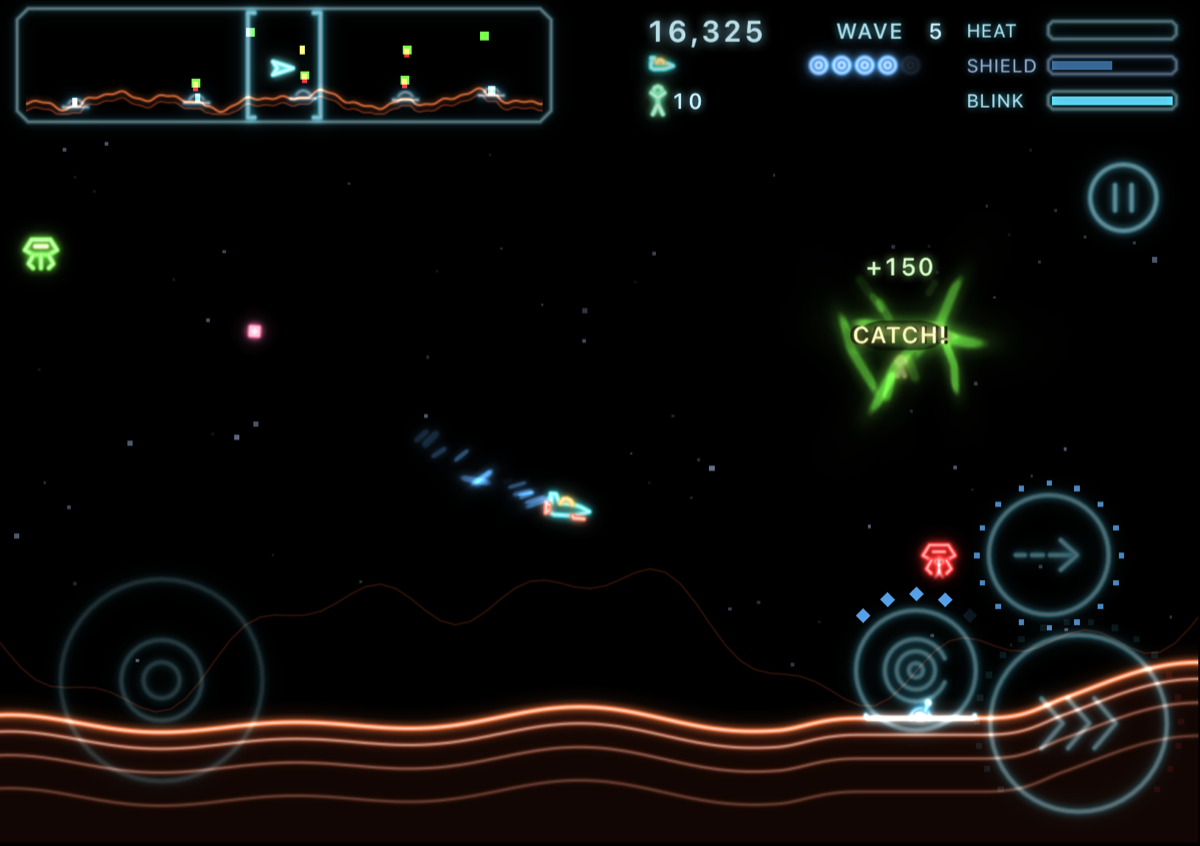
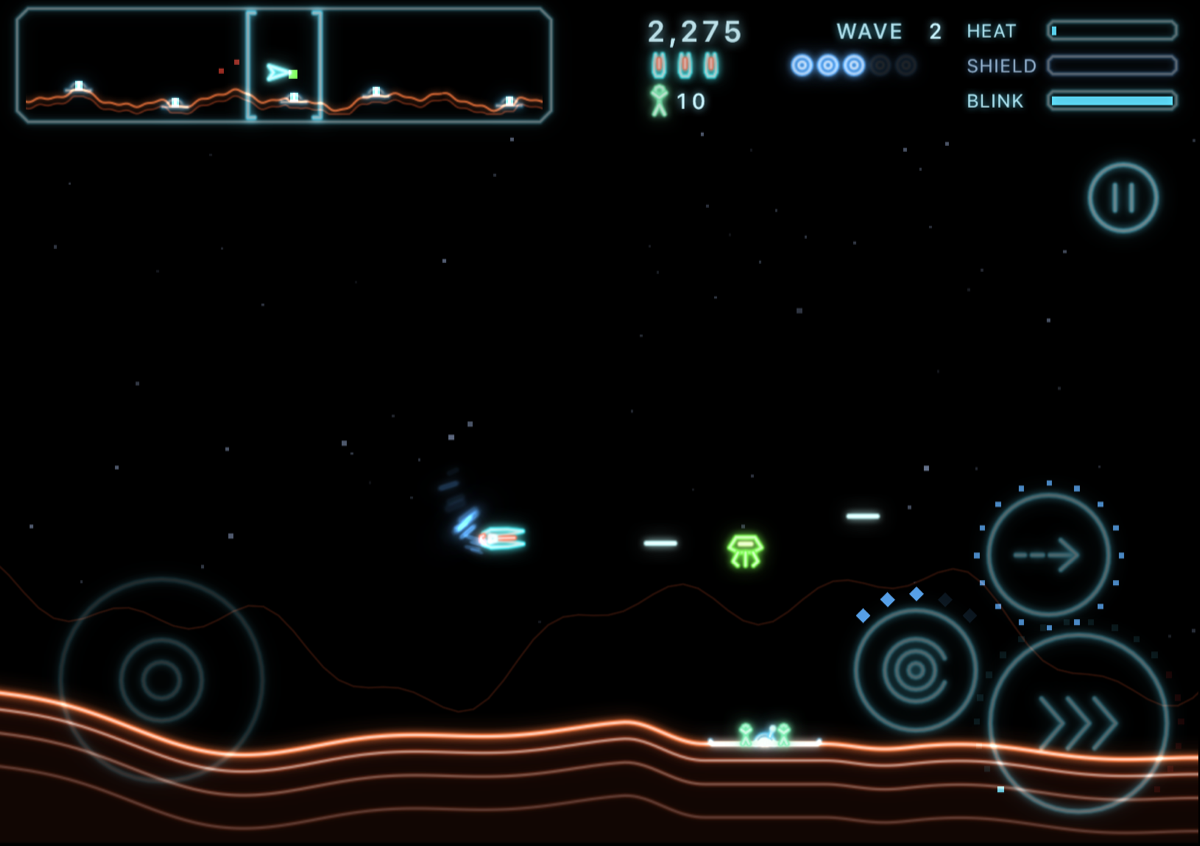
Replace the ship with the Pincer, a forked top-down gunship
The side-view jet is gone. The ship is now the Pincer, chosen from five
candidates: two prongs with the cannon between them, a canopy and an
engine at the back, symmetric top to bottom and the same size as the
original arrowhead. Shots leave from the mouth of the fork and the
plume from the engine.

HUD life icons point up again and show the hull and cannon. The app
icon and README screenshot are regenerated, and the ship test now pins
the symmetry and footprint. Sounds and tuning are unchanged.

Claude-Session: https://claude.ai/code/session_01Hc1qQ1kfAFP8Y5nkFC7a5U

diff --git a/GameCore/Sources/GameCore/Themes/AlienFrontier.swift b/GameCore/Sources/GameCore/Themes/AlienFrontier.swift
@@ -46,8 +46,8 @@ public struct AlienFrontier: Theme {
         }
     }
 
-    /// The ship as a life icon: just the hull and canopy, since the cannon and nozzle blur into
-    /// it at that size.
+    /// The ship as a life icon: just the forked hull and the cannon between its prongs, since the
+    /// canopy and engine blur into the back of the hull at that size.
     public func icon(for role: EntityRole) -> ShapeDescription {
         guard role == .player else { return shape(for: role) }
         return ShapeDescription(scale: Self.skimmer.scale, strokes: Array(Self.skimmer.strokes.prefix(2)))
@@ -136,26 +136,25 @@ public struct AlienFrontier: Theme {
 
     private static func v(_ x: Double, _ y: Double) -> Vec2 { Vec2(x, y) }
 
-    /// A side-on fighter: a long, low hull with a drooping nose, a bubble canopy behind the
-    /// middle, a raked tail fin, a flared engine nozzle at the back and a cannon slung under the
-    /// chin. Seen from the side, so it has a top and a bottom and is mirrored, never flipped
-    /// upside down, to face left.
+    /// The Pincer: a forked gunship seen from above. Two prongs run forward either side of a
+    /// cannon that sits in the gap between them, a canopy rides behind the fork and an engine
+    /// flares at the back. Symmetric top to bottom, so a left-facing ship is just a mirror.
     static let skimmer: ShapeDescription = {
         let hull = RGB(hex: 0x3FF6FF)
-        let canopy = RGB(hex: 0xFFD45A)
+        let canopy = RGB(hex: 0xE0FFFF)
         let hot = RGB(hex: 0xFF7A5A)
-        return ShapeDescription(scale: 19, strokes: [
-            // The hull, from the nose back along the spine, over the fin, down the tail and
-            // forward along the belly.
-            ShapeStroke([v(0.95, -0.06), v(0.55, 0.12), v(0.2, 0.2), v(-0.4, 0.22), v(-0.6, 0.6), v(-0.82, 0.6),
-                         v(-0.76, 0.2), v(-0.84, 0.15), v(-0.84, -0.2), v(-0.6, -0.32), v(0.25, -0.3), v(0.62, -0.18)],
+        return ShapeDescription(scale: 18, strokes: [
+            // The hull, from the tip of the upper prong back along the top, round the tail, out
+            // to the tip of the lower prong and back into the fork between them.
+            ShapeStroke([v(1.0, 0.3), v(0.3, 0.4), v(-0.5, 0.42), v(-0.85, 0.25), v(-0.85, -0.25), v(-0.5, -0.42),
+                         v(0.3, -0.4), v(1.0, -0.3), v(0.25, -0.16), v(-0.15, -0.12), v(-0.15, 0.12), v(0.25, 0.16)],
                         closed: true, color: hull),
-            // The canopy, a bubble on the spine.
-            ShapeStroke([v(0.18, 0.2), v(0.08, 0.36), v(-0.08, 0.43), v(-0.24, 0.41), v(-0.36, 0.22)], color: canopy),
-            // The cannon under the chin.
-            ShapeStroke([v(0.22, -0.3), v(0.28, -0.4), v(0.74, -0.4)], color: hot),
-            // The engine nozzle, flaring out behind.
-            ShapeStroke([v(-0.84, 0.1), v(-0.98, 0.17), v(-0.98, -0.27), v(-0.84, -0.15)], color: hot),
+            // The cannon, run forward from the back of the fork.
+            ShapeStroke([v(-0.15, 0), v(0.6, 0)], color: hot),
+            // The canopy behind the fork.
+            ShapeStroke([v(-0.3, 0.1), v(-0.55, 0.14), v(-0.55, -0.14), v(-0.3, -0.1)], closed: true, color: canopy),
+            // The engine, flaring out of the tail.
+            ShapeStroke([v(-0.85, 0.15), v(-0.97, 0.1), v(-0.97, -0.1), v(-0.85, -0.15)], color: hot),
         ])
     }()
 

diff --git a/GameCore/Tests/GameCoreTests/ThemeTests.swift b/GameCore/Tests/GameCoreTests/ThemeTests.swift
@@ -43,21 +43,27 @@ import Testing
         }
     }
 
-    /// The ship is drawn side-on: it has a top (canopy, fin) and a bottom (cannon), so it must
-    /// not be its own mirror image top to bottom, and it stays about as big as what can hit it.
-    @Test func theShipIsASideViewWithATopAndABottom() {
+    /// The ship is seen from above, so it is its own mirror image top to bottom: flipping it to
+    /// face left can never turn it upside down, and the plume and shots leave from its middle.
+    /// It stays about as big as what can hit it.
+    @Test func theShipIsATopDownForkSymmetricTopToBottom() {
         let ship = theme.shape(for: .player)
-        let points = Set(ship.strokes.flatMap(\.points).map { "\($0.x),\($0.y)" })
-        let mirrored = Set(ship.strokes.flatMap(\.points).map { "\($0.x),\(-$0.y == 0 ? 0 : -$0.y)" })
-        #expect(points != mirrored)
-        let bounds = ship.bounds
-        #expect(bounds.max.y > -bounds.min.y + 0.1, "the fin and canopy rise higher than the belly hangs")
-        // Its footprint is close to the hit circle: no more than half as long again as the
-        // circle is wide, and at least most of the circle tall.
+        for stroke in ship.strokes {
+            let points = Set(stroke.points.map { "\($0.x),\($0.y == 0 ? 0 : $0.y)" })
+            let mirrored = Set(stroke.points.map { "\($0.x),\($0.y == 0 ? 0 : -$0.y)" })
+            #expect(points == mirrored, "\(stroke.points)")
+        }
+        // The cannon lies on the centre line, behind the nose, where the shots leave.
+        let cannon = ship.strokes.filter { $0.points.allSatisfy { $0.y == 0 } }
+        #expect(cannon.count == 1)
+        #expect(cannon.first.map { $0.points.map(\.x).max()! < ship.bounds.max.x } == true)
+        // Its footprint is close to the hit circle: from as long as the circle is wide to half as
+        // long again, and from most of the circle tall to no taller than it.
         let radius = Tuning().playerRadius
+        let bounds = ship.bounds
         let length = (bounds.max.x - bounds.min.x) * ship.scale
         let height = (bounds.max.y - bounds.min.y) * ship.scale
-        #expect(length <= 2 * radius * 1.6 && length >= 2 * radius)
+        #expect(length >= 2 * radius && length <= 2 * radius * 1.6)
         #expect(height >= radius * 1.2 && height <= 2 * radius)
         // The life icon is a simpler ship, never a different one.
         let icon = theme.icon(for: .player)

diff --git a/Rimwatch/GameScene.swift b/Rimwatch/GameScene.swift
@@ -1508,11 +1508,11 @@ final class GameScene: SKScene {
         syncPlayer(sim.player)
         if sim.player.isAlive, frontEnd.screen == .playing {
             let p = sim.player
-            // The plume leaves the nozzle, wherever the tilt has swung it.
+            // The plume leaves the engine, wherever the tilt has swung it.
             let tilt = shipTilt(p)
-            let nozzle = shipNozzle
-            let tail = Vec2(world.wrap(p.pos.x + p.facing * nozzle.x * cos(tilt) - nozzle.y * sin(tilt)),
-                            p.pos.y + p.facing * nozzle.x * sin(tilt) + nozzle.y * cos(tilt))
+            let engine = shipEngine
+            let tail = Vec2(world.wrap(p.pos.x + p.facing * engine.x * cos(tilt) - engine.y * sin(tilt)),
+                            p.pos.y + p.facing * engine.x * sin(tilt) + engine.y * cos(tilt))
             effects.exhaust(at: tail, thrust: lastInput.move, shipVelocity: p.vel, facing: p.facing,
                             color: p.isOverheated ? theme.palette.warning : theme.palette.shield, elapsed: dt)
         }
@@ -1673,7 +1673,7 @@ final class GameScene: SKScene {
 
     /// Where the engine plume leaves the ship, in world units from its origin with the ship
     /// facing right: the middle of the rearmost points of the theme's ship shape.
-    private lazy var shipNozzle: Vec2 = {
+    private lazy var shipEngine: Vec2 = {
         let shape = theme.shape(for: .player)
         let back = shape.bounds.min.x
         let rear = shape.strokes.flatMap(\.points).filter { $0.x <= back + 0.001 }
@@ -1696,8 +1696,9 @@ final class GameScene: SKScene {
         node.isHidden = !player.isAlive
         guard player.isAlive else { return }
         node.position = CGPoint(x: world.delta(from: cameraX, to: player.pos.x), y: player.pos.y)
-        // Mirrored, never rotated, to face left: the ship is drawn side-on, so turning it half a
-        // circle would fly it upside down. The tilt follows the climb in either direction.
+        // Mirrored to face left, so the tilt keeps one sense for both facings: the nose lifts
+        // in a climb and dips in a dive either way. The ship is symmetric top to bottom, so the
+        // mirror looks the same as turning it round.
         node.xScale = player.facing < 0 ? -1 : 1
         node.zRotation = CGFloat(shipTilt(player))
 

diff --git a/Rimwatch/Render/HUDNode.swift b/Rimwatch/Render/HUDNode.swift
@@ -104,19 +104,17 @@ final class HUDNode: SKNode {
         addChild(score)
         scoreRow = score
 
-        // Row 2: lives as small ships, then Shockwave charges as rings. The ships lie level, so
-        // each takes a slot and a bit to stay clear of the next.
-        let lifeSlot: CGFloat = 1.3
-        let slots = CGFloat(maxLives) * lifeSlot + CGFloat(maxShockwaves) + 1.5
+        // Row 2: lives as small ships, then Shockwave charges as rings. The ships stand nose up,
+        // one to a slot, which leaves a clear gap between their prongs and the next ship.
+        let slots = CGFloat(maxLives + maxShockwaves) + 1.5
         let icon: CGFloat = min(rowH * 0.95, leftW / slots)
         let shipShape = theme.icon(for: .player)
         let shipSpan = (shipShape.bounds.max.x - shipShape.bounds.min.x) * shipShape.scale
         for index in 0..<maxLives {
             let sprite = SKSpriteNode()
-            factory.apply(iconGlyph("hud-life", shipShape, factor: Double(icon * 0.95) / shipSpan), to: sprite)
-            // Level and facing right, as the ship flies: it is drawn side-on, so standing it on
-            // its tail would read as a rocket.
-            sprite.position = CGPoint(x: icon * lifeSlot * (CGFloat(index) + 0.5), y: rowY(1))
+            factory.apply(iconGlyph("hud-life", shipShape, factor: Double(icon * 0.85) / shipSpan), to: sprite)
+            sprite.position = CGPoint(x: icon * (CGFloat(index) + 0.5), y: rowY(1))
+            sprite.zRotation = .pi / 2
             addChild(sprite)
             lifeIcons.append(sprite)
         }
@@ -124,7 +122,7 @@ final class HUDNode: SKNode {
             ShapeStroke(ShapeKit.arc(radius: 1, segments: 20), color: theme.palette.shield),
             ShapeStroke(ShapeKit.arc(radius: 0.4, segments: 12), color: theme.palette.shield),
         ])
-        let pipStart = icon * (CGFloat(maxLives) * lifeSlot + 0.5)
+        let pipStart = icon * (CGFloat(maxLives) + 0.5)
         for index in 0..<maxShockwaves {
             let sprite = SKSpriteNode()
             factory.apply(iconGlyph("hud-shock", pipShape, factor: Double(icon * 0.34)), to: sprite)

diff --git a/Tools/Icon/Sources/Icon/main.swift b/Tools/Icon/Sources/Icon/main.swift
@@ -138,20 +138,21 @@ for (path, color) in paths(of: theme.shape(for: .colonist), colonistPlace) {
 // MARK: Ship
 
 let ship = theme.shape(for: .player)
-let shipScale: CGFloat = 290
+let shipScale: CGFloat = 275
 let shipAngle: CGFloat = 6 * .pi / 180
-let shipPlace = CGAffineTransform(translationX: 560, y: 600).rotated(by: shipAngle)
+let shipPlace = CGAffineTransform(translationX: 535, y: 590).rotated(by: shipAngle)
     .scaledBy(x: shipScale, y: shipScale)
 
-// Engine trail: tapering streaks out of the nozzle (the middle of the ship's rearmost points),
+// Engine trail: tapering streaks out of the engine (the middle of the ship's rearmost points),
 // faded out along their length by a gradient mask.
 let shipTint = ship.strokes[0].color
 let rearmost = ship.strokes.flatMap(\.points).filter { $0.x <= ship.bounds.min.x + 0.001 }
-let nozzleY = CGFloat(rearmost.map(\.y).reduce(0, +) / Double(max(rearmost.count, 1)))
+let engineX = CGFloat(ship.bounds.min.x)
+let engineY = CGFloat(rearmost.map(\.y).reduce(0, +) / Double(max(rearmost.count, 1)))
 for (offset, length, weight) in [(0.0, 1.7, 1.0), (0.2, 1.15, 0.6), (-0.2, 1.15, 0.6)] as
     [(CGFloat, CGFloat, CGFloat)] {
-    let start = CGPoint(x: -0.98, y: nozzleY + offset).applying(shipPlace)
-    let end = CGPoint(x: -1.1 - length, y: nozzleY + offset * 0.75).applying(shipPlace)
+    let start = CGPoint(x: engineX - 0.02, y: engineY + offset * 0.5).applying(shipPlace)
+    let end = CGPoint(x: engineX - 0.12 - length, y: engineY + offset * 0.75).applying(shipPlace)
     let half = 30 * weight
     let dx = end.x - start.x, dy = end.y - start.y
     let len = (dx * dx + dy * dy).squareRoot()
@@ -185,7 +186,7 @@ for (offset, length, weight) in [(0.0, 1.7, 1.0), (0.2, 1.15, 0.6), (-0.2, 1.15,
 }
 
 for (path, color) in paths(of: ship, shipPlace) {
-    neon(path, color: color, width: 24)
+    neon(path, color: color, width: 20)
 }
 
 // MARK: Write

diff --git a/PLAN.md b/PLAN.md
@@ -133,8 +133,9 @@ shooter` (seeds, minutes cap, bots). Environment variables such as `SAFE`, `CATC
 override single tuning values for a sweep; see the top of its `main.swift`.
 
 Changes after the first play on a real phone (2026-11-20): the app icon was added (generated by
-`Tools/Icon`); the ship became a side-view fighter with a canopy, fin, nozzle and chin cannon, and
-the HUD life icons use the theme's simplified `icon(for:)`; the kill sounds `enemy.explode`,
+`Tools/Icon`); a side-view jet was tried for the ship and rejected, and the ship is now the
+Pincer, a forked top-down gunship the owner chose from five candidates, with the HUD life icons
+drawn from the theme's simplified `icon(for:)`; the kill sounds `enemy.explode`,
 `brood.burst` and `anchor.explode` became explosions built on a new `crackle` waveform, with
 their energy above 300 Hz. 204 tests pass. Sound was confirmed working on the phone; it is silent
 in Silent mode by design.

diff --git a/README.md b/README.md
@@ -5,7 +5,7 @@ game Defender (Williams Electronics, 1981). Native iOS, written in Swift with Sp
 third-party dependencies and no asset files: the art is drawn in code and the sound is synthesised.
 The one image in the app, its icon, is drawn by a script too.
 
-![Rimwatch gameplay in wave 5: the ship in flight, a colonist caught for 150 points and two Harvesters on screen](docs/screenshot.png)
+![Rimwatch gameplay in wave 2: the ship firing at a Harvester above an outpost with two colonists](docs/screenshot.png)
 
 *Captured on an ordinary iPhone simulator, letterboxed to the Duo's inner-display shape.*
 
